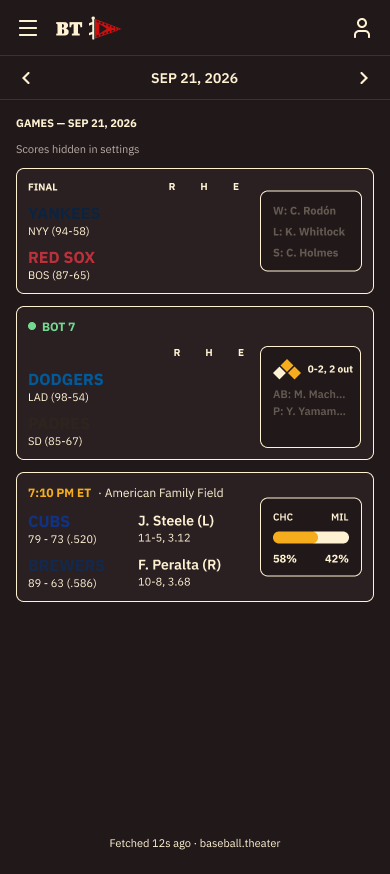
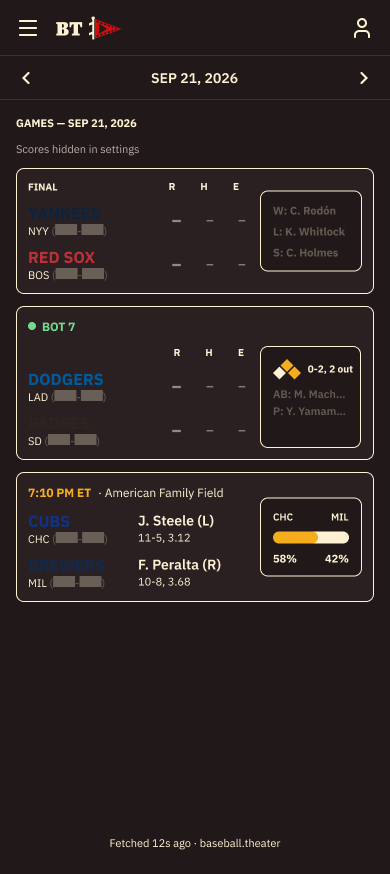
S35 follow-up: scores-hidden frames show dashes and redacted records.
Owner review: "the record should show those full block characters that
are kinda semi opaque, and the hidden scores should be dashes." Applied
to the mobile, medium and desktop scores-hidden frames in Figma and
re-exported; REVISIONS.md records it. The 30% block fill is a local
paint (the Plugin API drops opacity on variable-bound range fills in
instances) - noted as token debt.

Verification (scripts/verify-S35.sh --reverify, exit 0; pnpm verify, 0): 5/5 checks pass.

diff --git a/docs/v3/AUDIT.md b/docs/v3/AUDIT.md
@@ -3164,3 +3164,83 @@ functions build: Done
 ```
 
 </details>
+
+---
+
+## 2026-10-10 — S35 re-verified
+
+**Figma revisions: shell + scoreboard**
+
+| | |
+|---|---|
+| Entry | story re-verification — the grader still passes at the HEAD below; **not** a capture of the original completion run |
+| Captured (UTC) | `2026-10-10T19:04:39Z` |
+| Shipped in | (see this story's completion entry above) |
+| HEAD at capture | `369d9b2` (tree dirty) |
+| Grader | `scripts/verify-S35.sh` — exit `0` |
+| `pnpm verify` | exit `0` |
+
+**What was tested and verified**
+
+```
+check 1 PASS: REVISIONS.md has ## Source (figma.com URL + non-empty Version:) and ## Revisions
+check 2 PASS: ## Revisions has a row for R6 R7 R8 R9 R14a R16 R17a R18, each naming an existing export
+check 3 PASS: every export is named <slug>-(mobile|medium|desktop).(png|svg|pdf) with no dark/light token
+check 4 PASS: required exports exist: shell-notice, scoreboard-slot-room-menu, 5 states x 3 sizes
+check 5 PASS: backlog Status is done
+```
+
+**5/5 checks passed**
+
+<details><summary>Grader output</summary>
+
+```
+
+--- verify-S35 check results ---
+check 1 PASS: REVISIONS.md has ## Source (figma.com URL + non-empty Version:) and ## Revisions
+check 2 PASS: ## Revisions has a row for R6 R7 R8 R9 R14a R16 R17a R18, each naming an existing export
+check 3 PASS: every export is named <slug>-(mobile|medium|desktop).(png|svg|pdf) with no dark/light token
+check 4 PASS: required exports exist: shell-notice, scoreboard-slot-room-menu, 5 states x 3 sizes
+check 5 PASS: backlog Status is done
+--- verify-S35: 5/5 checks passed ---
+verify-S35: all checks passed
+```
+
+</details>
+
+<details><summary><code>pnpm verify</code> (tail)</summary>
+
+```
+packages/domain typecheck$ tsc -p tsconfig.json --noEmit
+packages/mlb-api typecheck$ tsc -p tsconfig.json --noEmit
+packages/domain typecheck: Done
+packages/mlb-api typecheck: Done
+web typecheck$ tsc -p tsconfig.json --noEmit
+packages/ports typecheck$ tsc -p tsconfig.json --noEmit
+packages/ports typecheck: Done
+web typecheck: Done
+functions typecheck$ tsc -p tsconfig.json --noEmit
+functions typecheck: Done
+Scope: 5 of 6 workspace projects
+packages/domain build$ tsc -p tsconfig.json --noEmit
+packages/mlb-api build$ tsc -p tsconfig.json --noEmit
+packages/domain build: Done
+packages/mlb-api build: Done
+web build$ tsc -p tsconfig.json --noEmit && vite build
+packages/ports build$ tsc -p tsconfig.json --noEmit
+packages/ports build: Done
+web build: vite v6.4.3 building for production...
+web build: transforming...
+web build: ✓ 825 modules transformed.
+web build: rendering chunks...
+web build: computing gzip size...
+web build: dist/index.html                   0.73 kB │ gzip:   0.40 kB
+web build: dist/assets/index-Bzd6sD-u.css  201.57 kB │ gzip:  29.40 kB
+web build: dist/assets/index-C7eK7TxF.js   453.69 kB │ gzip: 142.68 kB
+web build: ✓ built in 842ms
+web build: Done
+functions build$ tsc -p tsconfig.json --noEmit
+functions build: Done
+```
+
+</details>

diff --git a/docs/v3/visual/shell-scoreboard/REVISIONS.md b/docs/v3/visual/shell-scoreboard/REVISIONS.md
@@ -21,6 +21,14 @@ Exports are 1× PNG renders of the frames with the same names. Node IDs are list
 | R17a | Medium (no rail) and desktop (the medium frame plus the nav rail) frames for the empty, loading, error, scores-hidden and collapsed states, next to the existing mobile ones. Scores-hidden and collapsed use the same module instances in a two-column wrap. | `scoreboard-empty-medium.png`, `scoreboard-empty-desktop.png`, `scoreboard-loading-medium.png`, `scoreboard-loading-desktop.png`, `scoreboard-error-medium.png`, `scoreboard-error-desktop.png`, `scoreboard-scores-hidden-medium.png`, `scoreboard-scores-hidden-desktop.png`, `scoreboard-collapsed-medium.png`, `scoreboard-collapsed-desktop.png` |
 | R18  | Every shell and scoreboard frame name ends in `mobile`, `medium` or `desktop`. None ended in `-dark`, so nothing was renamed, and every new frame follows the rule. The `-dark` frames on other surfaces belong to S36–S38. | `scoreboard-empty-mobile.png`, `scoreboard-loading-mobile.png`, `scoreboard-scores-hidden-mobile.png`, `scoreboard-collapsed-mobile.png` |
 
+## Owner follow-up (2026-10-10)
+
+The owner reviewed `scoreboard-scores-hidden-mobile` and said the score cells read as missing: *"the record should show those full block characters that are kinda semi opaque, and the hidden scores should be dashes."* Applied to all three scores-hidden frames and re-exported (`scoreboard-scores-hidden-mobile.png`, `scoreboard-scores-hidden-medium.png`, `scoreboard-scores-hidden-desktop.png`):
+
+- The R / H / E cells show a muted `–` (bound to `color/text/muted`) instead of an invisible numeral.
+- Each record line shows the abbreviation, then the record as semi-opaque full blocks, e.g. `NYY (██-██)`. The blocks are Light at 30%. They apply to every row, scheduled included, so the hidden state treats every record the same way.
+- Token debt: the 30% block fill is a local paint (`#FFF2D3` at 0.3), not a variable binding. The Plugin API drops the paint opacity when a variable is bound to a character range inside an instance. A designer can fix it in Figma, for example with a `color/text/redacted` variable.
+
 ## Choices made while applying (for the owner to check before S31 ratifies)
 
 - Room-menu links are plain underlined Light text at Label size, with a 4px gap. The item text says only "a stack of links".
